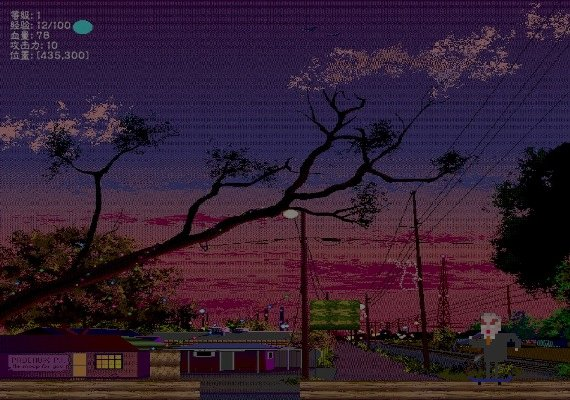
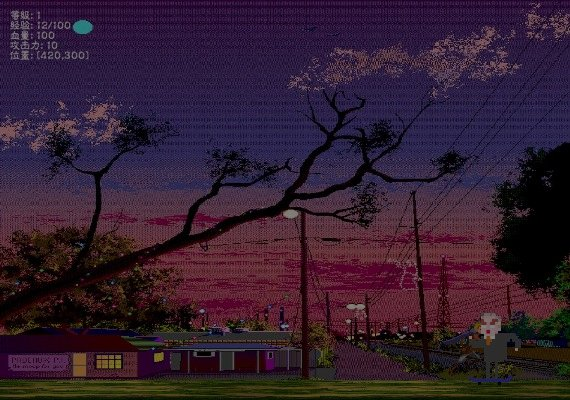
玩家进度保存与加载

diff --git a/main.py b/main.py
@@ -1,9 +1,11 @@
 import pygame
 import sys
 import random
+import json
 
 window_width = 570
 window_height = 400
+progress_file_path = './static/level_progress.json'
 
 
 class Manager:
@@ -28,20 +30,56 @@ class Manager:
         drawText(self.screen, "拯救爱丽丝", 150, 100, 50, (255, 255, 155))
         # 刷新界面
         pygame.display.flip()
+        # 读取进度文件不存在则创建
+        progress_info = ""
+        try:
+            with open(progress_file_path, "r") as f:
+                progress_info = f.read()
+        except FileNotFoundError:
+            with open(progress_file_path, 'w') as file:
+                file.write("")  # 创建一个空文件
         # 等待玩家输入
-        waitPlayerInput(self.screen, "按下S键开始游戏...", pygame.K_s)
+        if progress_info == "":
+            waitPlayerInput(self.screen, "按下S键开始游戏", pygame.K_s)
+        else:
+            # 绘制提示文字
+            drawText(self.screen, "按下S键继续游戏", 300, 320, 15, (255, 255, 255))
+            drawText(self.screen, "按下D键开始新游戏", 300, 350, 15, (255, 255, 255))
+            pygame.display.flip()
+            # 等待玩家输入
+            input_key = None
+            wait_input = True
+            while wait_input:
+                for event in pygame.event.get():
+                    if event.type == pygame.QUIT:
+                        pygame.quit()
+                        sys.exit()
+                    elif event.type == pygame.KEYDOWN and (event.key in  [pygame.K_s,pygame.K_d]):
+                        input_key = event.key
+                        # 清空事件队列
+                        pygame.event.clear()
+                        # 清空事件队列
+                        pygame.event.clear()
+                        wait_input = False
+                        break
+            if input_key == pygame.K_d:
+                # 清空进度文件
+                with open(progress_file_path, 'w') as file:
+                    file.write("")
+                progress_info = ""
+        self.game_start(progress_info)
         # 刷新界面
         pygame.display.flip()
-        # 游戏开始
-        self.game_start()
         return
 
-    def game_start(self):
+    def game_start(self, progress_info=""):
         # 开始游戏
         pygame.display.flip()
         # 初始化玩家对象
         playerObj = Player()
-        # 加载第一关
+        if progress_info != "":
+            playerObj = self.load_progress(playerObj, progress_info)
+        # 加载关卡
         GameLevel().level_1(self.screen, playerObj)
         GameLevel().level_2(self.screen, playerObj)
         return
@@ -50,7 +88,25 @@ class Manager:
         # 退出游戏
         pygame.quit()
         sys.exit()
-
+        
+    def load_progress(self, playerObj, progress_info):
+        # 载入进度
+        progress_info = json.loads(progress_info)
+        # 玩家速度
+        playerObj.player_speed = progress_info["player_speed"]
+        # 玩家等级
+        playerObj.player_level = progress_info["player_level"]
+        # 玩家经验
+        playerObj.player_exp = progress_info["player_exp"]
+        # 玩家生命值
+        playerObj.player_hp = progress_info["player_hp"]
+        # 玩家攻击力
+        playerObj.player_attack = progress_info["player_attack"]
+        # 每次升级需要经验
+        playerObj.player_exp_needed = progress_info["player_exp_needed"]
+        # 当前关卡
+        playerObj.current_level = progress_info["current_level"]
+        return playerObj
 
 def drawText(screen, text, x, y, textHeight=30, fontColor=(255, 255, 255), backgroudColor=None):
     # 通过字体文件获得字体对象 参数1 字体文件 参数2 字体大小
@@ -138,13 +194,7 @@ def waitPlayerInput(screen, text="", eventKey=pygame.K_s):
 
 
 class GameLevel(object):
-
-    def clearancePrompt(self, screen):
-        image = pygame.image.load("./static/y.png")
-        image = pygame.transform.scale(image, (80, 80))
-        screen.blit(image, (430, 220))
-        drawText(screen, "向前进入下一关", 380, 180, 20)
-
+        
     def platform_1_image(self):
         bgi = pygame.image.load("./static/platform_1.png").convert_alpha()
         return bgi
@@ -152,8 +202,25 @@ class GameLevel(object):
     def platform_2_image(self):
         bgi = pygame.image.load("./static/platform_2.png").convert_alpha()
         return bgi
+    
+    def pass_level(self,screen, playerObj):
+        # 播放通关音效
+        Music().pass_level()
+        # 显示下一关入口
+        image = pygame.image.load("./static/y.png")
+        image = pygame.transform.scale(image, (80, 80))
+        screen.blit(image, (430, 220))
+        drawText(screen, "向前进入下一关", 380, 180, 20)
+        if playerObj.x >= 520:
+            # 保存关卡进度
+            playerObj.current_level += 1
+            playerObj.save_level_progress()
+            return True
+        return False
 
     def level_1(self, screen, playerObj):
+        if playerObj.current_level != 1:
+            return
         clock = pygame.time.Clock()
         # 绘制背景# 绘制剧情音乐
         Music().plot()
@@ -230,12 +297,7 @@ class GameLevel(object):
             # 玩家升级检测
             playerObj.player_level_up(screen)
             if is_npc_interactive:
-                # 播放通关音效
-                Music().pass_level()
-                # 显示下一关入口
-                self.clearancePrompt(screen)
-                if playerObj.x >= 520:
-                    game_over = True
+                game_over = self.pass_level(screen, playerObj)
             elif enemies is None or len(enemies) == 0:
                 # 绘制NPC从右边滑出
                 if npc_x > 450:
@@ -416,6 +478,8 @@ class Player(object):
         self.gravity = 0.5
         # 玩家是否在地面上
         self.on_ground = False
+        # 当前关卡
+        self.current_level = 1
 
     # 玩家详情信息
     def player_info(self, screen):
@@ -602,17 +666,39 @@ class Player(object):
         # 显示死亡信息
         drawText(screen, "你已死亡!", 200, 50, 30, (255, 0, 0))
         # 等待用户输入
-        waitPlayerInput(screen, "按'F'键重新开始...", pygame.K_f)
-        # 重置玩家位置
-        self.reset_player_pos()
+        waitPlayerInput(screen, "按'F'键回到主界面...", pygame.K_f)
         # 播放死亡音效
         pygame.mixer.music.load("./static/death.mp3")
         pygame.mixer.music.play()
+        # 保存关卡进度
+        self.save_level_progress()
         # 回到主界面
         manager = Manager()
         manager.main()
         return
 
+    def save_level_progress(self):
+        # 保存关卡进度
+        info = {
+            # 玩家速度
+            "player_speed" : self.player_speed,
+            # 玩家等级
+            "player_level" : self.player_level,
+            # 玩家经验
+            "player_exp" : self.player_exp,
+            # 玩家生命值
+            "player_hp" : self.player_hp,
+            # 玩家攻击力
+            "player_attack" : self.player_attack,
+            # 每次升级需要经验
+            "player_exp_needed" : self.player_exp_needed,
+            # 当前关卡
+            "current_level" : self.current_level
+        }
+        with open(progress_file_path, "r+") as f:
+            f.truncate(0)  # 清空文件内容
+            f.write(str(json.dumps(info)))
+        return
 
 # 敌人类
 class Enemy(object):
